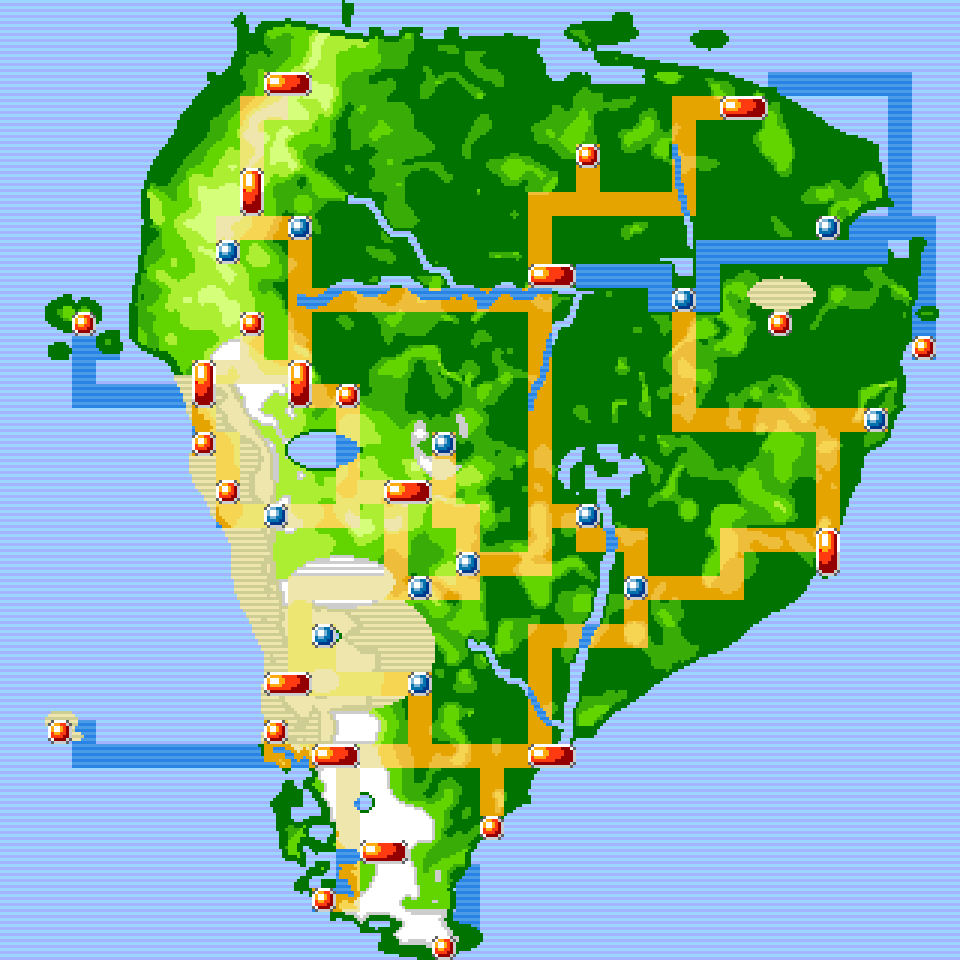
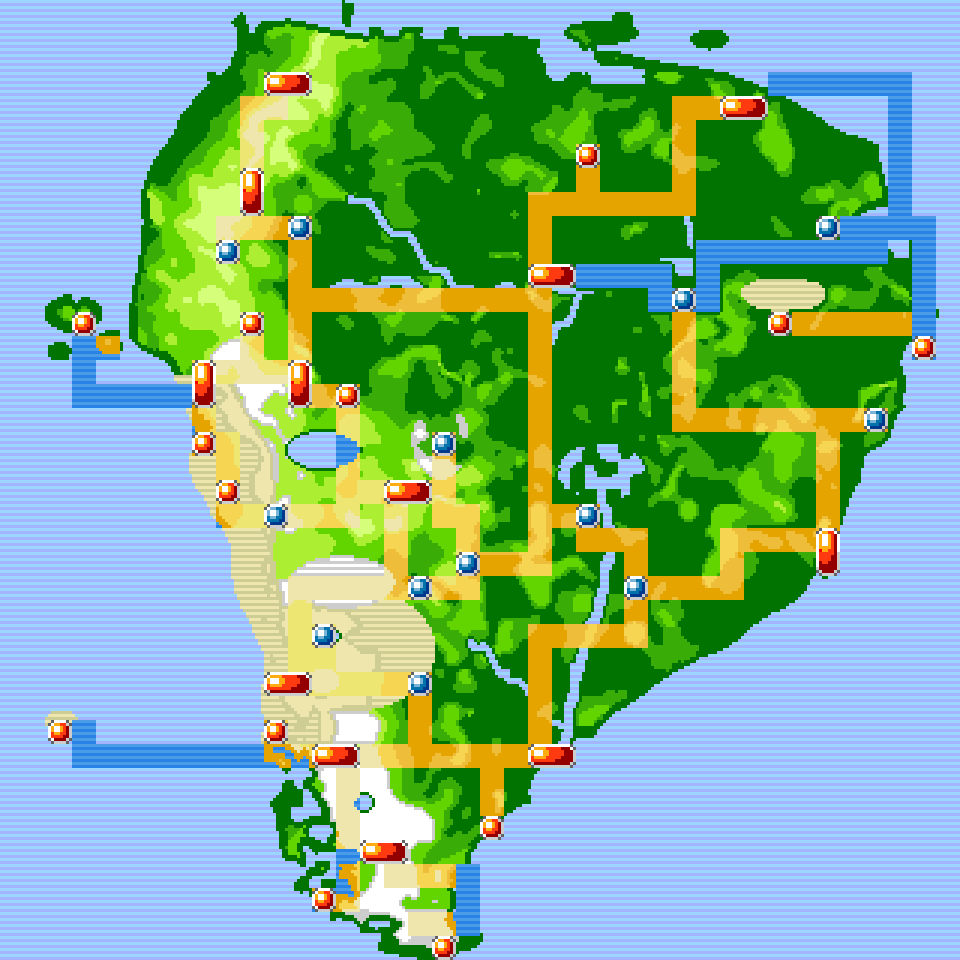
Regiokaart: tussenstand (agent bezig)

diff --git a/tools/concept/regiokaart.py b/tools/concept/regiokaart.py
@@ -180,7 +180,7 @@ lvl[coast] = 0
 biome = np.zeros((PH, PW), int)   # 0 groen, 2 woestijn, 3 sneeuw, 4 zout
 desert = land & (cy > 15.5) & (cy < 31) & (cx < ridge - 0.8 + (n - 0.5) * 2)
 desert |= land & ellipse(14.5, 27, 3.6, 2.6)                                       # Atacama-hoogland/Lípez
-desert |= land & ellipse(32.5, 12.2, 1.4, 0.7)                                    # Lençóis Maranhenses
+desert |= land & ellipse(32.5 + (n - 0.5) * 1.6, 12.2, 1.4, 0.7)                                  # Lençóis Maranhenses
 biome[desert] = 2
 snow = land & (((lvl >= 4) & (cy > 14) & (cy < 31) & (andes > 0.75) & (biome != 2))
                | ((cy > 31) & (lvl >= 3)) | (cy > 37.8)
@@ -240,7 +240,7 @@ img[erode(dhi) & (dlv >= 4) | erode(erode(dhi))] = SAND[0]
 # sneeuw: witte toppen met een grijze rand, op de groene ondergrond; de kust blijft donkergroen
 sm = land & (biome == 3) & ~coast
 img[sm] = SNOW[1]
-img[erode(sm) & ((lvl >= 3) | (dist_in(sm) >= 3))] = SNOW[0]
+img[erode(sm) & (lvl >= 3)] = SNOW[0]
 # zoutvlakte: vlak en spiegelend, dus strepen (wit/grijs) zoals de zee
 sa = land & (biome == 4)
 paint(sa, SALT, stripes)
@@ -402,10 +402,11 @@ pl[(biome == 3) | (biome == 4)] = 4
 pl[coast] = 0
 paint(rmask, ROUTE, pl)
 # water op een landroute wordt waterroute-blauw (zoals het meertje op Route 120 in Hoenn)
-paint(rmask & (water_in | ~land), SEAROUTE, stripes)
-# zeeroutes alleen over water; land dat in een zeeroutevak valt, blijft land (Hoenn: eilanden liggen erbovenop)
-rrmask = np.kron(river_route, np.ones((8, 8), bool))
-paint((smask & ~land) | rrmask, SEAROUTE, stripes)
+paint(rmask & ((lakes & land) | ~land), SEAROUTE, stripes)
+# zeeroutes: vakken die vooral land zijn (het stukje van de stad naar de kust) worden landroute
+cwater = np.kron((cell_water >= 0.5) | river_route, np.ones((8, 8), bool))
+paint(smask & ~cwater & land, ROUTE, pl)
+paint(smask & (cwater | ~land), SEAROUTE, stripes)
 
 # ---------- stadsiconen uit de Hoenn-kaart ----------
 d = 'graphics/pokenav/region_map/'
